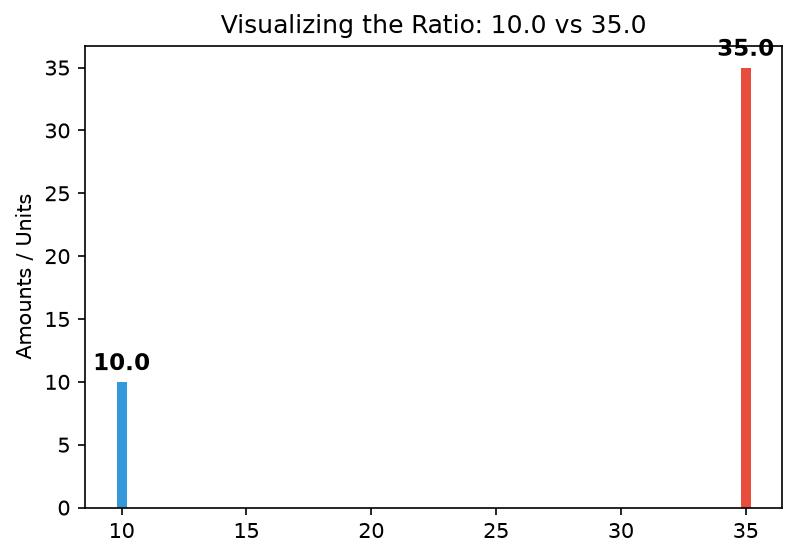
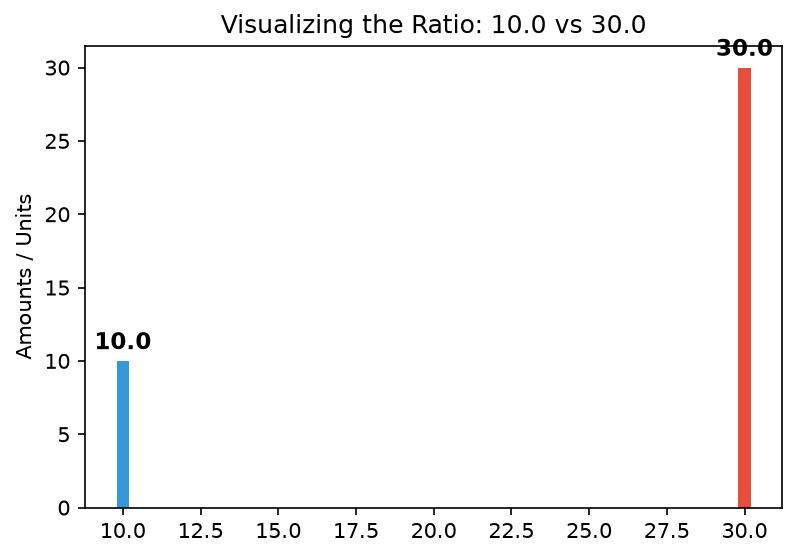
debug fraction-muli-div md

diff --git a/skills/fraction-muli-div-docs/SKILL.md b/skills/fraction-muli-div-docs/SKILL.md
@@ -32,8 +32,10 @@ If the student asks a question or requests an example before the quiz:
 - Always ask if they have more questions or if they are ready for the quiz.
 
 ### 3. Section 3: Video Tutorial Display (Provided on Request)
-CRITICAL INSTRUCTION: You MUST actually EXECUTE the `play_video` tool to open the Math Antics video on multiplying and dividing fractions. Do NOT just output text pretending you did it.
-After executing the tool, explicitly tell the student in your response: "I have opened an excellent YouTube video tutorial by Math Antics in your browser to help you learn more!"
+CRITICAL INSTRUCTION: If the student explicitly asks for a video, tutorial, or visual clip, you MUST execute the `play_video` tool using one of these exact URLs:
+- **For Multiplication/Division video:** https://www.youtube.com/watch?v=qeWRewXB91g&t=1s
+
+Do NOT make up, guess, or hallucinate any other video IDs or URLs. After executing the tool with the correct link, explicitly tell the student in your response: "I have opened an excellent YouTube video tutorial by Math Antics in your browser to help you learn more!"
 
 ### 4. Section 4: Interactive Quiz Evaluation
 When the student enters the quiz phase, you will receive their answer and a system verification result:
